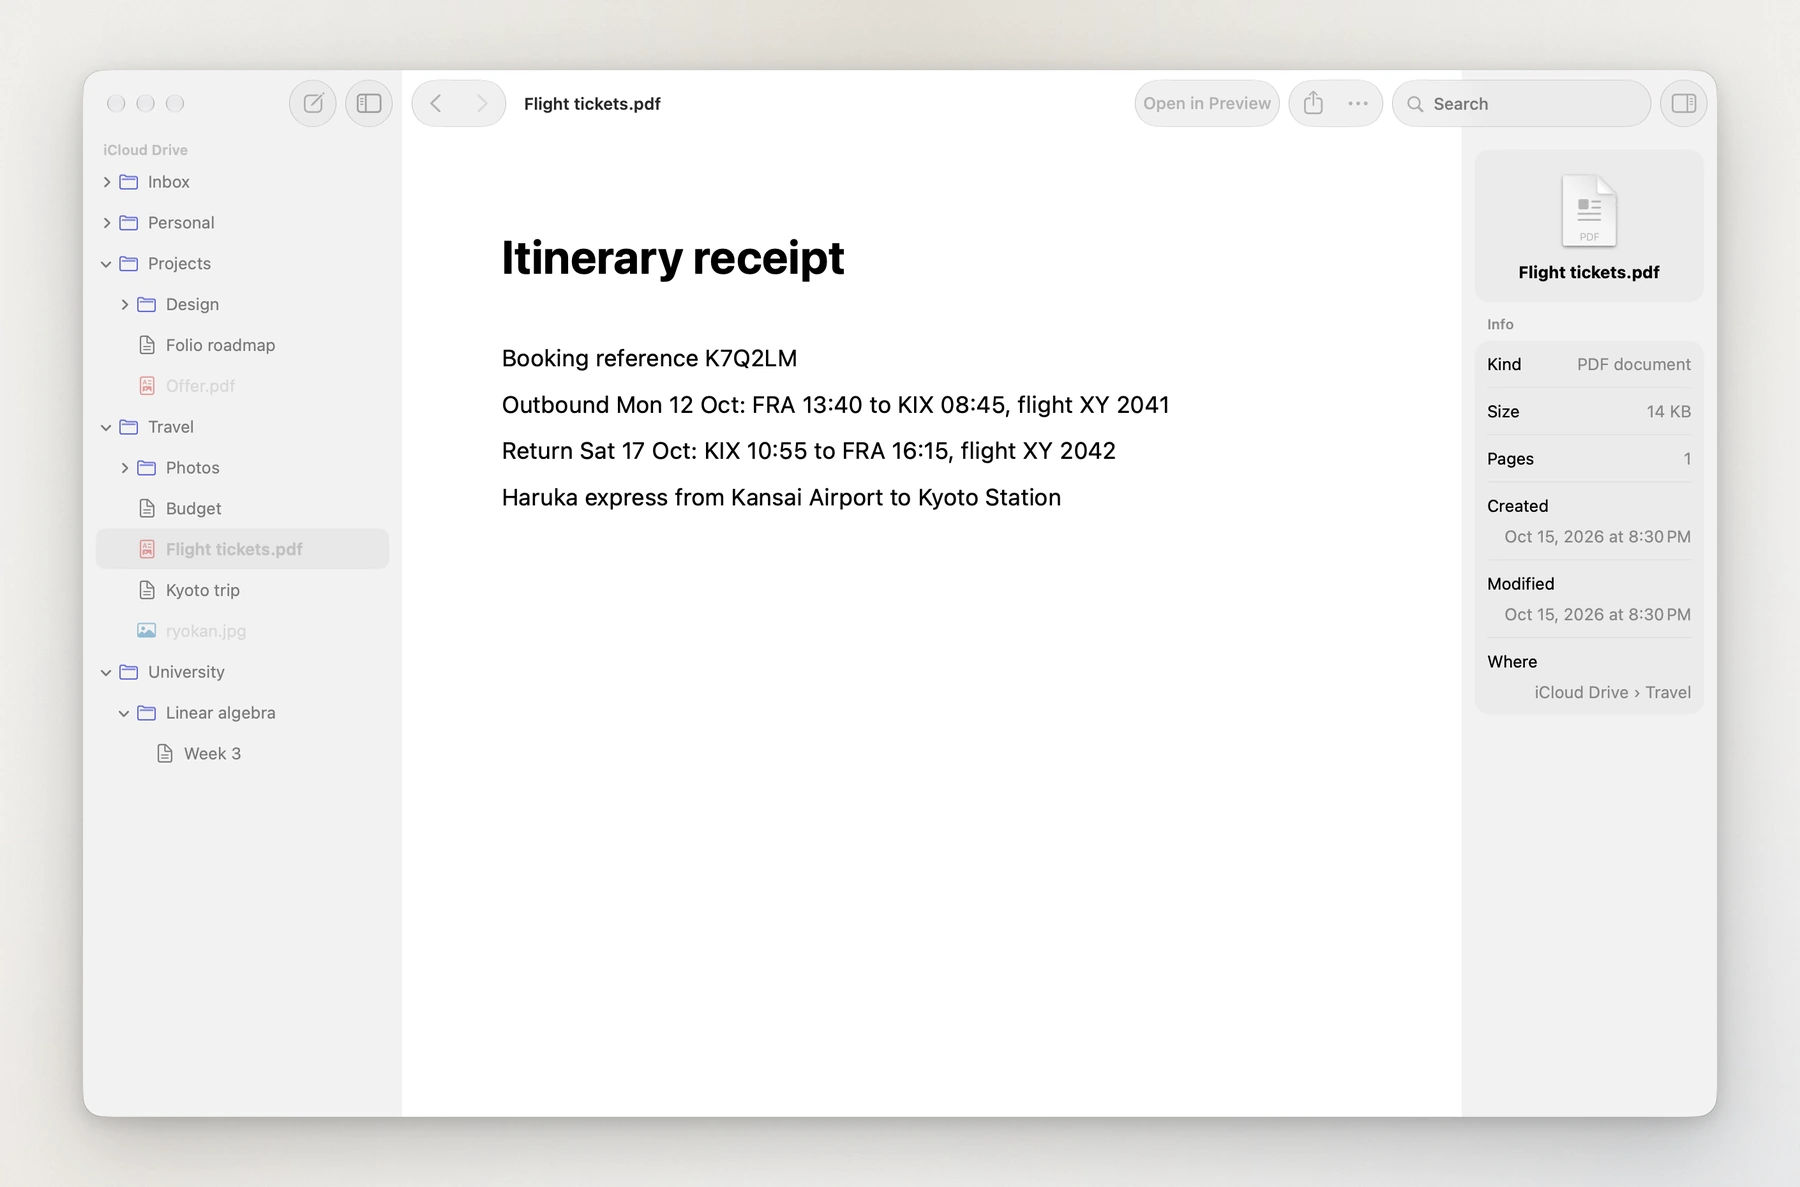
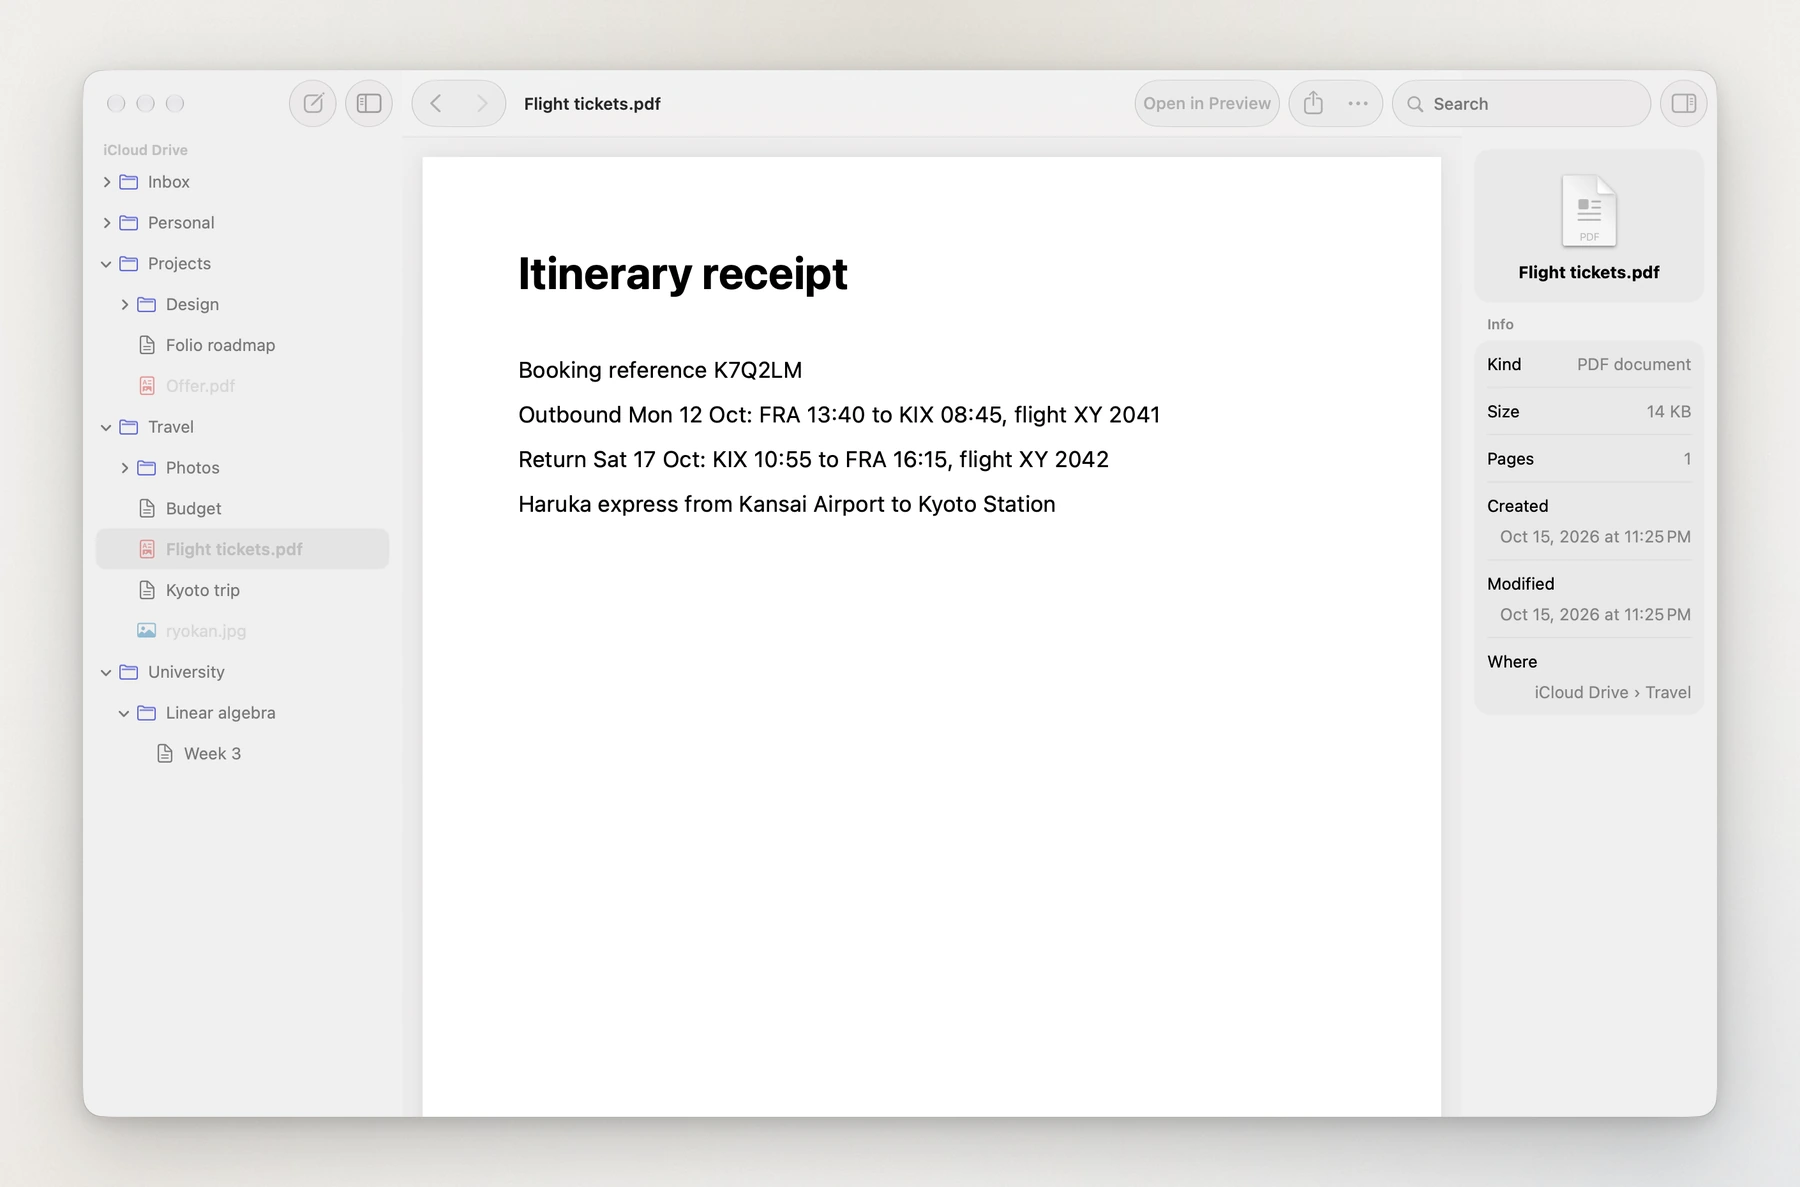
PDFs open as in Preview, without Quick Look's placeholder
A PDF in the window was a Quick Look view, which shows a dashed placeholder until its
out-of-process preview arrives. PDFs now open in PDFKit's view, set up like Preview's
continuous scroll: the pages fit the width on the grey behind them, with shadows, and
scroll under the toolbar. The file is read in the background through NSFileCoordinator
(which also waits for iCloud), the pages fade in, and a system spinner shows only when
that takes over 0.6 s ("Downloading from iCloud…" for a file not on the Mac yet). Each
PDF keeps its scroll position and zoom for the session, so Back, Forward and swipes land
where you left it. Damaged or password-protected PDFs still go to Quick Look, which has
its own file icon and password field.

PDFKit fits the width only after the document is set and keeps the view's centre, which
left the first page part way down; the view scrolls to the top below the toolbar itself.
Page snapshots for swipes now carry their background, so a sliding PDF stays grey under
the toolbar.

README and changelog describe PDFs this way, with new Quick Look pictures. Debug remote:
pdfdelay, pdfscroll and pdfinfo.

diff --git a/Packages/FolioKit/Sources/FolioKit/UI/PDFFileView.swift b/Packages/FolioKit/Sources/FolioKit/UI/PDFFileView.swift
@@ -1,0 +1,118 @@
+import PDFKit
+import SwiftUI
+
+/// A PDF, drawn by PDFKit right in the window as Preview draws it: the pages one under the other on the grey behind
+/// them, scrolling under the toolbar. The file is read in the background and the pages fade in once it is; until then
+/// there is only the grey, and a spinner if that takes long enough to notice. A file still in iCloud says it is
+/// downloading. A PDF that PDFKit can't show (damaged, or locked with a password) goes to Quick Look instead.
+struct PDFFileView: View {
+    let url: URL
+    @State private var document: PDFDocument?
+    @State private var waiting: Waiting?
+    @State private var failed = false
+
+    private enum Waiting { case reading, downloading }
+
+    var body: some View {
+        if failed {
+            QuickLookView(url: url)
+        } else {
+            ZStack {
+                PDFKitView(url: url, document: document)
+                    .opacity(document == nil ? 0 : 1)
+                    .ignoresSafeArea(.container, edges: .top)
+                if document == nil, let waiting {
+                    Group {
+                        if waiting == .downloading {
+                            ProgressView("Downloading from iCloud…")
+                        } else {
+                            ProgressView()
+                        }
+                    }
+                    .foregroundStyle(.secondary)
+                    .transition(.opacity)
+                }
+            }
+            .frame(maxWidth: .infinity, maxHeight: .infinity)
+            .background(Color(nsColor: .underPageBackgroundColor).ignoresSafeArea())
+            .animation(.easeOut(duration: 0.2), value: document != nil)
+            .animation(.easeOut(duration: 0.2), value: waiting != nil)
+            .task { await load() }
+        }
+    }
+
+    private func load() async {
+        let inCloud = (try? url.resourceValues(forKeys: [.ubiquitousItemDownloadingStatusKey]).ubiquitousItemDownloadingStatus) == .notDownloaded
+        // As everywhere on the Mac, nothing spins for a wait too short to notice.
+        let indicator = Task {
+            try? await Task.sleep(for: .seconds(inCloud ? 0.2 : 0.6))
+            if !Task.isCancelled { waiting = inCloud ? .downloading : .reading }
+        }
+        defer { indicator.cancel() }
+        let url = url
+        let loaded = await Task.detached(priority: .userInitiated) { () -> PDFDocument? in
+            #if DEBUG
+            if let delay = Self.debugDelay { try? await Task.sleep(for: .seconds(delay)) }
+            #endif
+            // A coordinated read waits for iCloud to bring the file down, and for anyone still writing it.
+            var document: PDFDocument?
+            NSFileCoordinator().coordinate(readingItemAt: url, options: [], error: nil) { url in
+                document = PDFDocument(url: url)
+            }
+            return document
+        }.value
+        guard !Task.isCancelled else { return }
+        if let loaded, !loaded.isLocked, loaded.pageCount > 0 {
+            document = loaded
+        } else {
+            failed = true
+        }
+    }
+
+    #if DEBUG
+    /// For the debug remote: makes reading every PDF take this long, to see the wait.
+    nonisolated(unsafe) static var debugDelay: TimeInterval?
+    #endif
+}
+
+/// PDFKit's view, set up like Preview's continuous scroll: the pages fit the width, with page breaks and shadows.
+/// It keeps where you were in each PDF, so going back to one (or swiping to it) shows the page you left.
+private struct PDFKitView: NSViewRepresentable {
+    let url: URL
+    let document: PDFDocument?
+
+    /// Where each PDF was left: how far it was scrolled, in the pages' own points, and its zoom unless it fit the width.
+    @MainActor private static var places: [URL: (origin: CGPoint, scale: CGFloat?)] = [:]
+
+    func makeCoordinator() -> URL { url }
+
+    func makeNSView(context: Context) -> PDFView {
+        let view = PDFView()
+        view.displayMode = .singlePageContinuous
+        view.displaysPageBreaks = true
+        view.pageShadowsEnabled = true
+        view.pageBreakMargins = NSEdgeInsets(top: 12, left: 12, bottom: 12, right: 12)
+        view.autoScales = true
+        view.backgroundColor = .underPageBackgroundColor
+        return view
+    }
+
+    func updateNSView(_ view: PDFView, context: Context) {
+        guard view.document !== document else { return }
+        view.document = document
+        let place = Self.places[url]
+        if let scale = place?.scale { view.scaleFactor = scale }
+        guard document != nil, let scrollView = view.documentView?.enclosingScrollView else { return }
+        // PDFKit fits the pages to the width only now, and keeps the middle of the view where it was, which leaves
+        // the first page part way down. It starts at the top instead, below the toolbar, or where it was left.
+        view.layoutDocumentView()
+        let clip = scrollView.contentView
+        clip.scroll(to: place?.origin ?? NSPoint(x: clip.bounds.minX, y: -scrollView.contentInsets.top / scrollView.magnification))
+        scrollView.reflectScrolledClipView(clip)
+    }
+
+    static func dismantleNSView(_ view: PDFView, coordinator url: URL) {
+        guard view.document != nil, let clip = view.documentView?.enclosingScrollView?.contentView else { return }
+        places[url] = (clip.bounds.origin, view.autoScales ? nil : view.scaleFactor)
+    }
+}

diff --git a/Packages/FolioKit/Sources/FolioKit/UI/SwipeNavigation.swift b/Packages/FolioKit/Sources/FolioKit/UI/SwipeNavigation.swift
@@ -99,7 +99,9 @@ final class PageSwiper {
             configuration.showsCursor = false
             guard let image = try? await SCScreenshotManager.captureImage(contentFilter: SCContentFilter(desktopIndependentWindow: shown), configuration: configuration),
                   !Task.isCancelled, self.quickLookURL == url else { return }
-            self.keep(PageSnapshot(image: image, frame: area, in: self.anchor), for: url)
+            // A PDF lies on the grey behind its pages, which reaches up under the toolbar.
+            let background: NSColor = FileKind(url: url, isDirectory: false) == .pdf ? .underPageBackgroundColor : Theme.panel
+            self.keep(PageSnapshot(image: image, frame: area, in: self.anchor, background: background), for: url)
         }
     }
 
@@ -291,20 +293,24 @@ final class PageSwiper {
     #endif
 }
 
-/// A page as it looked: a picture, where it sat on the stage (from the top, centred like the note's text), and
-/// whether it was light or dark.
+/// A page as it looked: a picture, where it sat on the stage (from the top, centred like the note's text), what
+/// was around it, and whether it was light or dark.
 struct PageSnapshot {
     let image: CGImage
     let size: CGSize
     let top: CGFloat
     let centerOffset: CGFloat
+    let background: CGColor
     let appearance: NSAppearance.Name?
 
-    init(image: CGImage, frame: NSRect, in view: NSView) {
+    init(image: CGImage, frame: NSRect, in view: NSView, background: NSColor = Theme.panel) {
         self.image = image
         size = frame.size
         top = view.bounds.maxY - frame.maxY
         centerOffset = frame.midX - view.bounds.midX
+        var color = background.cgColor
+        view.effectiveAppearance.performAsCurrentDrawingAppearance { color = background.cgColor }
+        self.background = color
         appearance = Self.appearance(of: view)
     }
 
@@ -368,14 +374,12 @@ final class SwipeStageView: NSView {
         CATransaction.setDisableActions(true)
         layer?.removeAllAnimations()
         layer?.opacity = 1
-        for (content, snapshot) in [(lowerContent, direction == .back ? target : page), (upperContent, direction == .back ? page : target)] {
+        for (side, content, snapshot) in [(lower, lowerContent, direction == .back ? target : page), (upper, upperContent, direction == .back ? page : target)] {
+            side.removeAllAnimations()
+            side.frame = bounds
+            side.backgroundColor = snapshot?.background ?? background
             content.contents = snapshot?.image
             content.frame = snapshot?.frame(in: bounds) ?? .zero
-        }
-        for page in [lower, upper] {
-            page.removeAllAnimations()
-            page.frame = bounds
-            page.backgroundColor = background
         }
         dimming.frame = bounds
         edgeShadow.frame = NSRect(x: -Self.shadowWidth, y: 0, width: Self.shadowWidth, height: bounds.height)

diff --git a/Packages/FolioKit/Sources/FolioKit/Debug/DebugRemote.swift b/Packages/FolioKit/Sources/FolioKit/Debug/DebugRemote.swift
@@ -1,5 +1,6 @@
 #if DEBUG
 import AppKit
+import PDFKit
 import SwiftUI
 
 /// Development-only remote control, as in Issues. Launch with `-debugCommandFile <path>` and append lines to that
@@ -345,9 +346,28 @@ enum DebugRemote {
             log("swipe \(argument)")
         case "undo":
             window?.firstResponder?.undoManager?.undo()
+        case "pdfdelay":
+            // pdfdelay <seconds>: reading a PDF takes this long (0 for as long as it really takes).
+            PDFFileView.debugDelay = numbers.first.flatMap { $0 > 0 ? $0 : nil }
+        case "pdfinfo":
+            // pdfinfo: how far the open PDF is scrolled, its zoom and its insets.
+            if let pdf = window?.contentView.flatMap(pdfView), let scrollView = pdf.documentView?.enclosingScrollView {
+                log("pdf clip=\(scrollView.contentView.bounds) scale=\(pdf.scaleFactor) auto=\(pdf.autoScales) insets=\(scrollView.contentInsets) document=\(scrollView.documentView?.frame ?? .zero)")
+            }
+        case "pdfscroll":
+            // pdfscroll <y>: scrolls the open PDF, in its pages' points from the top.
+            if let pdf = window?.contentView.flatMap(pdfView), let scrollView = pdf.documentView?.enclosingScrollView, let y = numbers.first {
+                scrollView.contentView.scroll(to: NSPoint(x: scrollView.contentView.bounds.minX, y: y))
+                scrollView.reflectScrolledClipView(scrollView.contentView)
+            }
         default:
             log("unknown command: \(line)")
         }
+    }
+
+    private static func pdfView(in view: NSView) -> PDFView? {
+        if let pdf = view as? PDFView { return pdf }
+        return view.subviews.lazy.compactMap(pdfView).first
     }
 
     private static func dump() {

diff --git a/Packages/FolioKit/Sources/FolioKit/UI/MainView.swift b/Packages/FolioKit/Sources/FolioKit/UI/MainView.swift
@@ -235,6 +235,9 @@ struct DetailColumn: View {
                 if workspace.note != nil {
                     NoteEditorView(editor: workspace.editor)
                         .ignoresSafeArea(.container, edges: .top)
+                } else if FileKind(url: url, isDirectory: false) == .pdf {
+                    PDFFileView(url: url)
+                        .id(url)
                 } else {
                     QuickLookView(url: url)
                         .id(url)

diff --git a/README.md b/README.md
@@ -41,8 +41,8 @@
 Apple Notes is a pleasure to write in, but it keeps your notes in its own database. Markdown apps keep them as files,
 but most of them feel like a code editor or ask you to move everything into a vault. Folio does both: it shows the
 folders you already have, iCloud Drive first, and turns the Markdown files in them into notes that write like Notes.
-Pictures, PDFs and every other file sit right next to them and open in Quick Look. What Folio saves is ordinary
-Markdown that GitHub, Obsidian or iA Writer read just the same.
+Pictures, PDFs and every other file sit right next to them and open in the window: PDFs as in Preview, the rest in
+Quick Look. What Folio saves is ordinary Markdown that GitHub, Obsidian or iA Writer read just the same.
 
 ## A quick tour
 
@@ -105,20 +105,21 @@ With an empty field, it lists what you opened last.
   <img alt="The search field with kyoto typed in: the note Kyoto trip under Files, and under In Notes and PDFs a match on page 1 of Flight tickets.pdf and one in the note Budget, then New Note kyoto" src="Design/screenshots/search-light.webp">
 </picture>
 
-### Every other file, in Quick Look
+### PDFs and every other file
 
-Folio is a browser for your folders, not only for notes. A PDF, a picture, a video or a spreadsheet opens in Quick
-Look right in the window, and the inspector shows its details. "Open in" hands it to its own app.
+Folio is a browser for your folders, not only for notes. A PDF opens right in the window the way Preview shows it,
+its pages one under the other: there at once, and back where you left it when you return. A picture, a video or a
+spreadsheet opens in Quick Look. The inspector shows a file's details, and "Open in" hands it to its own app.
 
 <picture>
   <source media="(prefers-color-scheme: dark)" srcset="Design/screenshots/quicklook-dark.webp">
-  <img alt="Flight tickets.pdf open in the window through Quick Look, with its kind, size, page count, dates and folder in the inspector" src="Design/screenshots/quicklook-light.webp">
+  <img alt="Flight tickets.pdf open in the window, its page on grey as in Preview, with its kind, size, page count, dates and folder in the inspector" src="Design/screenshots/quicklook-light.webp">
 </picture>
 
 ### A Mac app, made of the Mac's parts
 
 The window is built from the system's own pieces: a source-list sidebar, a toolbar with the system's search field and
-share menu, an inspector, Settings, alerts and Quick Look. It follows the system's light or dark appearance. The
+share menu, an inspector, Settings, alerts, PDFKit and Quick Look. It follows the system's light or dark appearance. The
 inspector shows a note's outline, with the section you're reading marked and a word count; a click on a heading
 scrolls there. In Settings › Text you pick the typeface (San Francisco, New York, Rounded or Monospaced), the size,
 the line spacing and the line width.
@@ -135,6 +136,7 @@ the line spacing and the line width.
   folds into a small "properties" pill.
 - **Pictures and files in notes.** Paste or drop them in; `![[embeds]]` of other notes show an excerpt, of files a
   card with a preview.
+- **PDFs and other files** open in the window: PDFs as in Preview, the rest in Quick Look.
 - **Search** across file names, note text and PDF text.
 - **Saves as you type,** and never overwrites a change made somewhere else (see below).
 - **Export** a note as a PDF or a PNG image, or print it.
@@ -272,7 +274,7 @@ Packages/FolioKit/
     Render/                  Tables, maths, diagrams and code highlighting
     Files/                   Locations, the file tree, file operations, saving, watching and the three-way merge
     Index/                   Search over names, note text and PDF text, and how [[links]] resolve
-    UI/                      The window, sidebar, inspector, search field, Settings, file windows and Quick Look
+    UI/                      The window, sidebar, inspector, search field, Settings, file windows, PDFs and Quick Look
     Debug/                   The debug remote and the sample notes (Debug builds only)
   Tests/                     Parser, editor, merge and smoothness tests
 Config/                      Build settings, Info.plist and entitlements

diff --git a/CHANGELOG.md b/CHANGELOG.md
@@ -20,7 +20,8 @@ The first version: a Mac app for Markdown notes in your own folders.
 - The title is the file name; renaming a note updates the links to it.
 - Search with ⌘F across file names, note text and PDF text.
 - Back and forward with ⌘[ and ⌘], or with a swipe as in Safari.
-- Quick Look for every other file, with its details in the inspector.
+- PDFs in the window as in Preview, there at once and back where you left them; Quick Look for every other file.
+  The inspector shows a file's details.
 - The outline of a note in the inspector, with a word count.
 - Saving as you type, with a three-way merge when a note changed somewhere else, and a choice when both changed the
   same lines.
